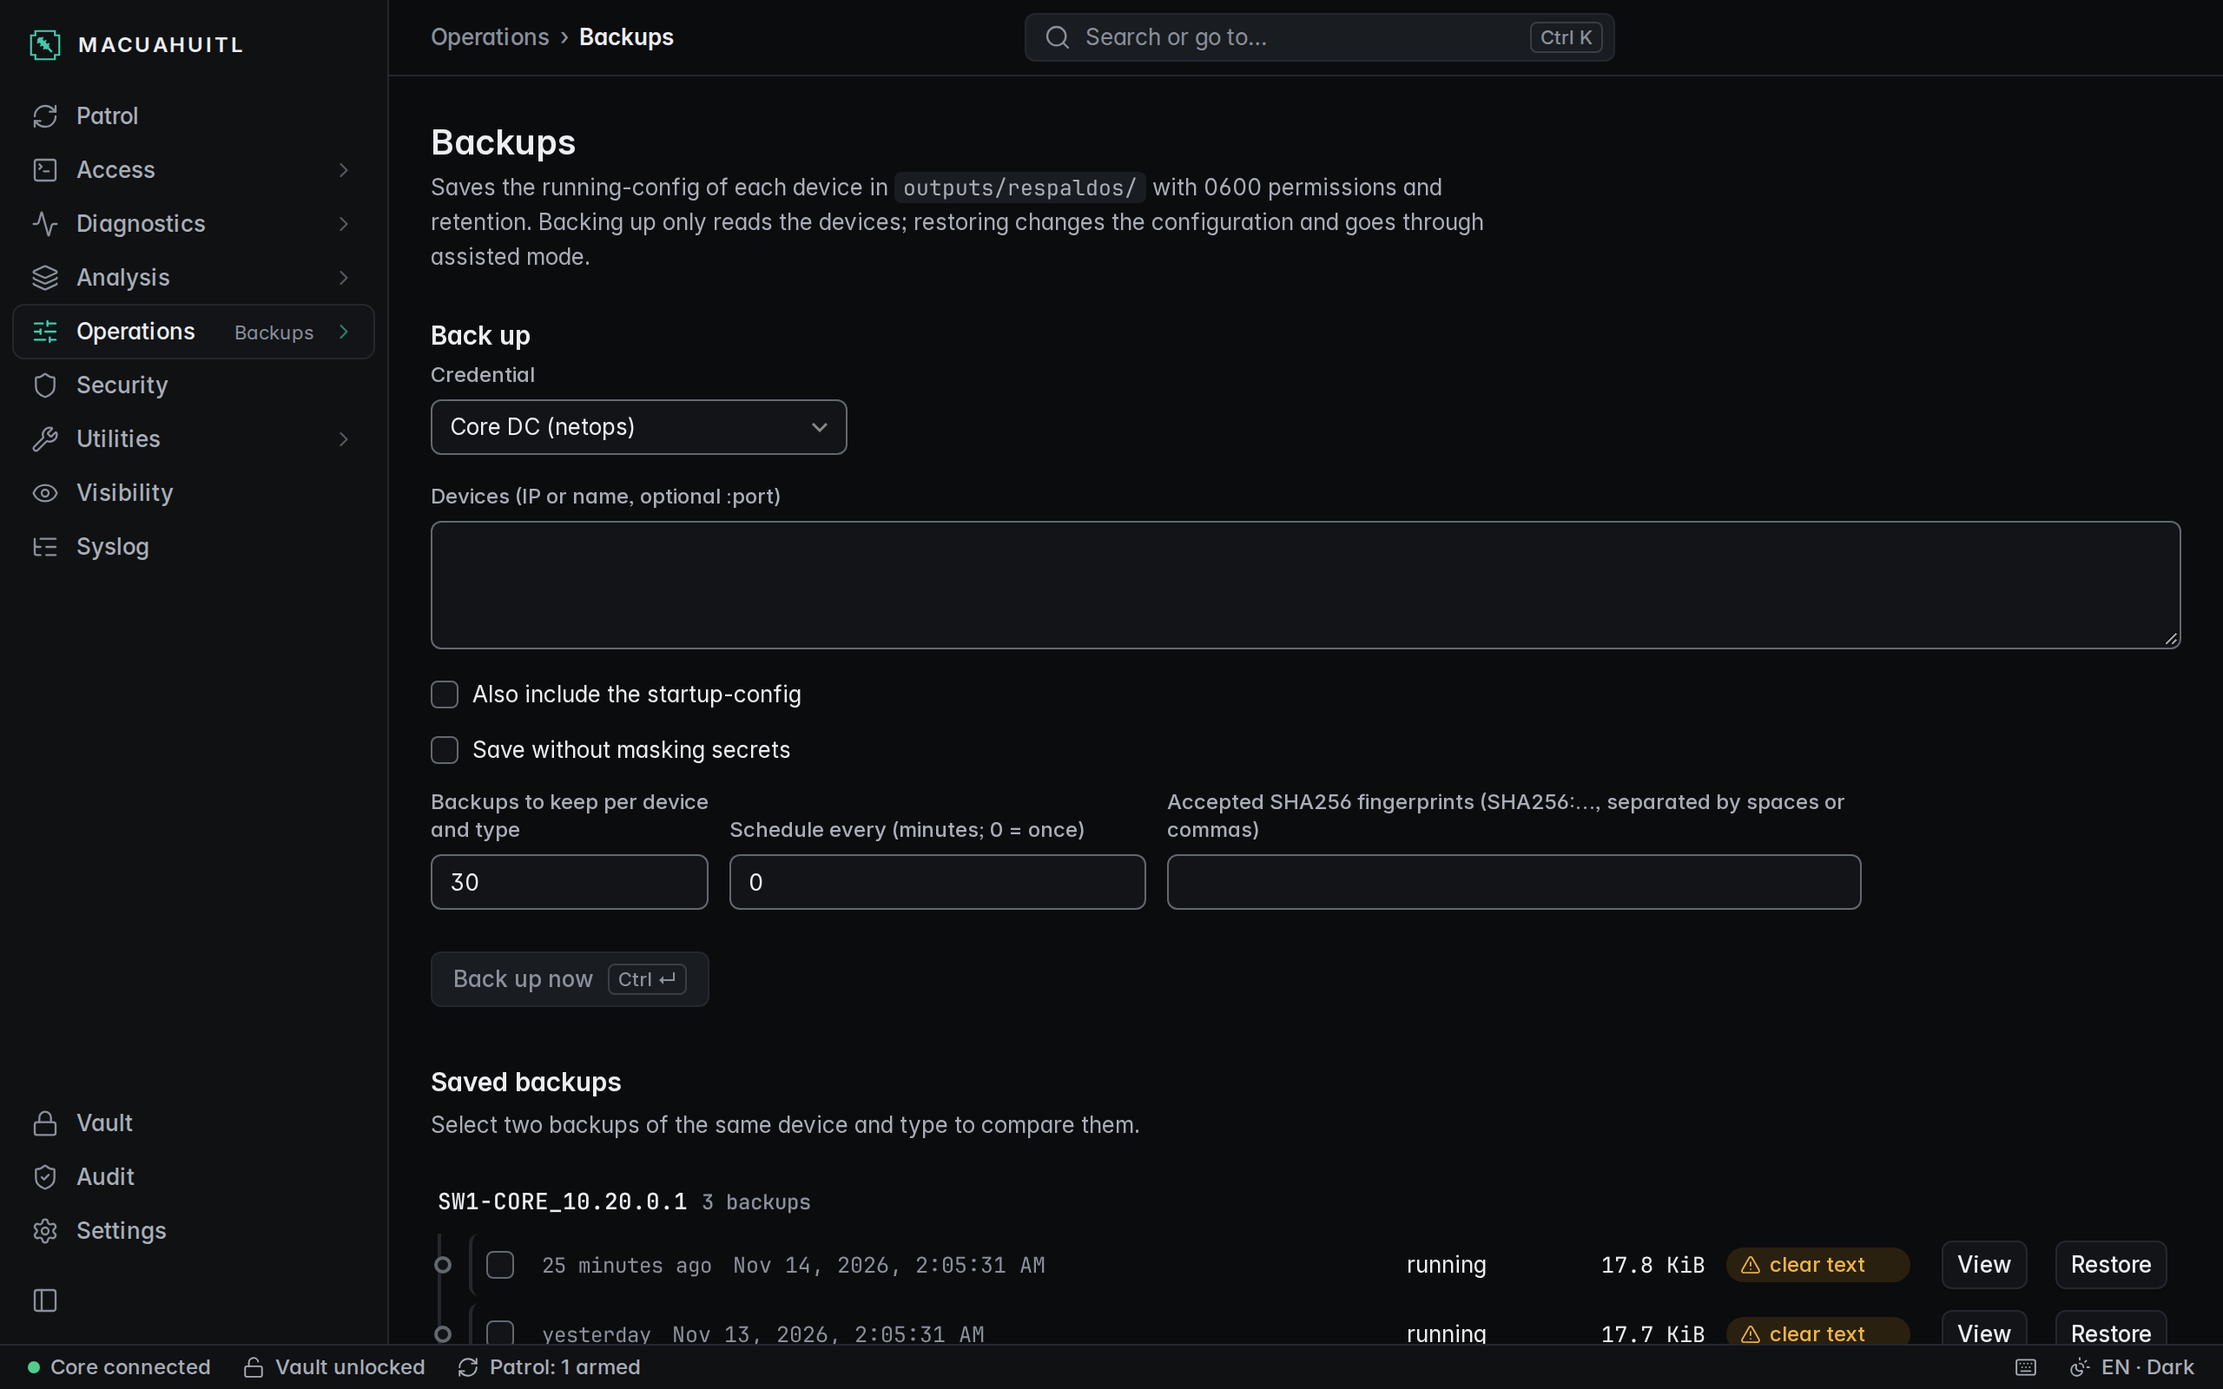
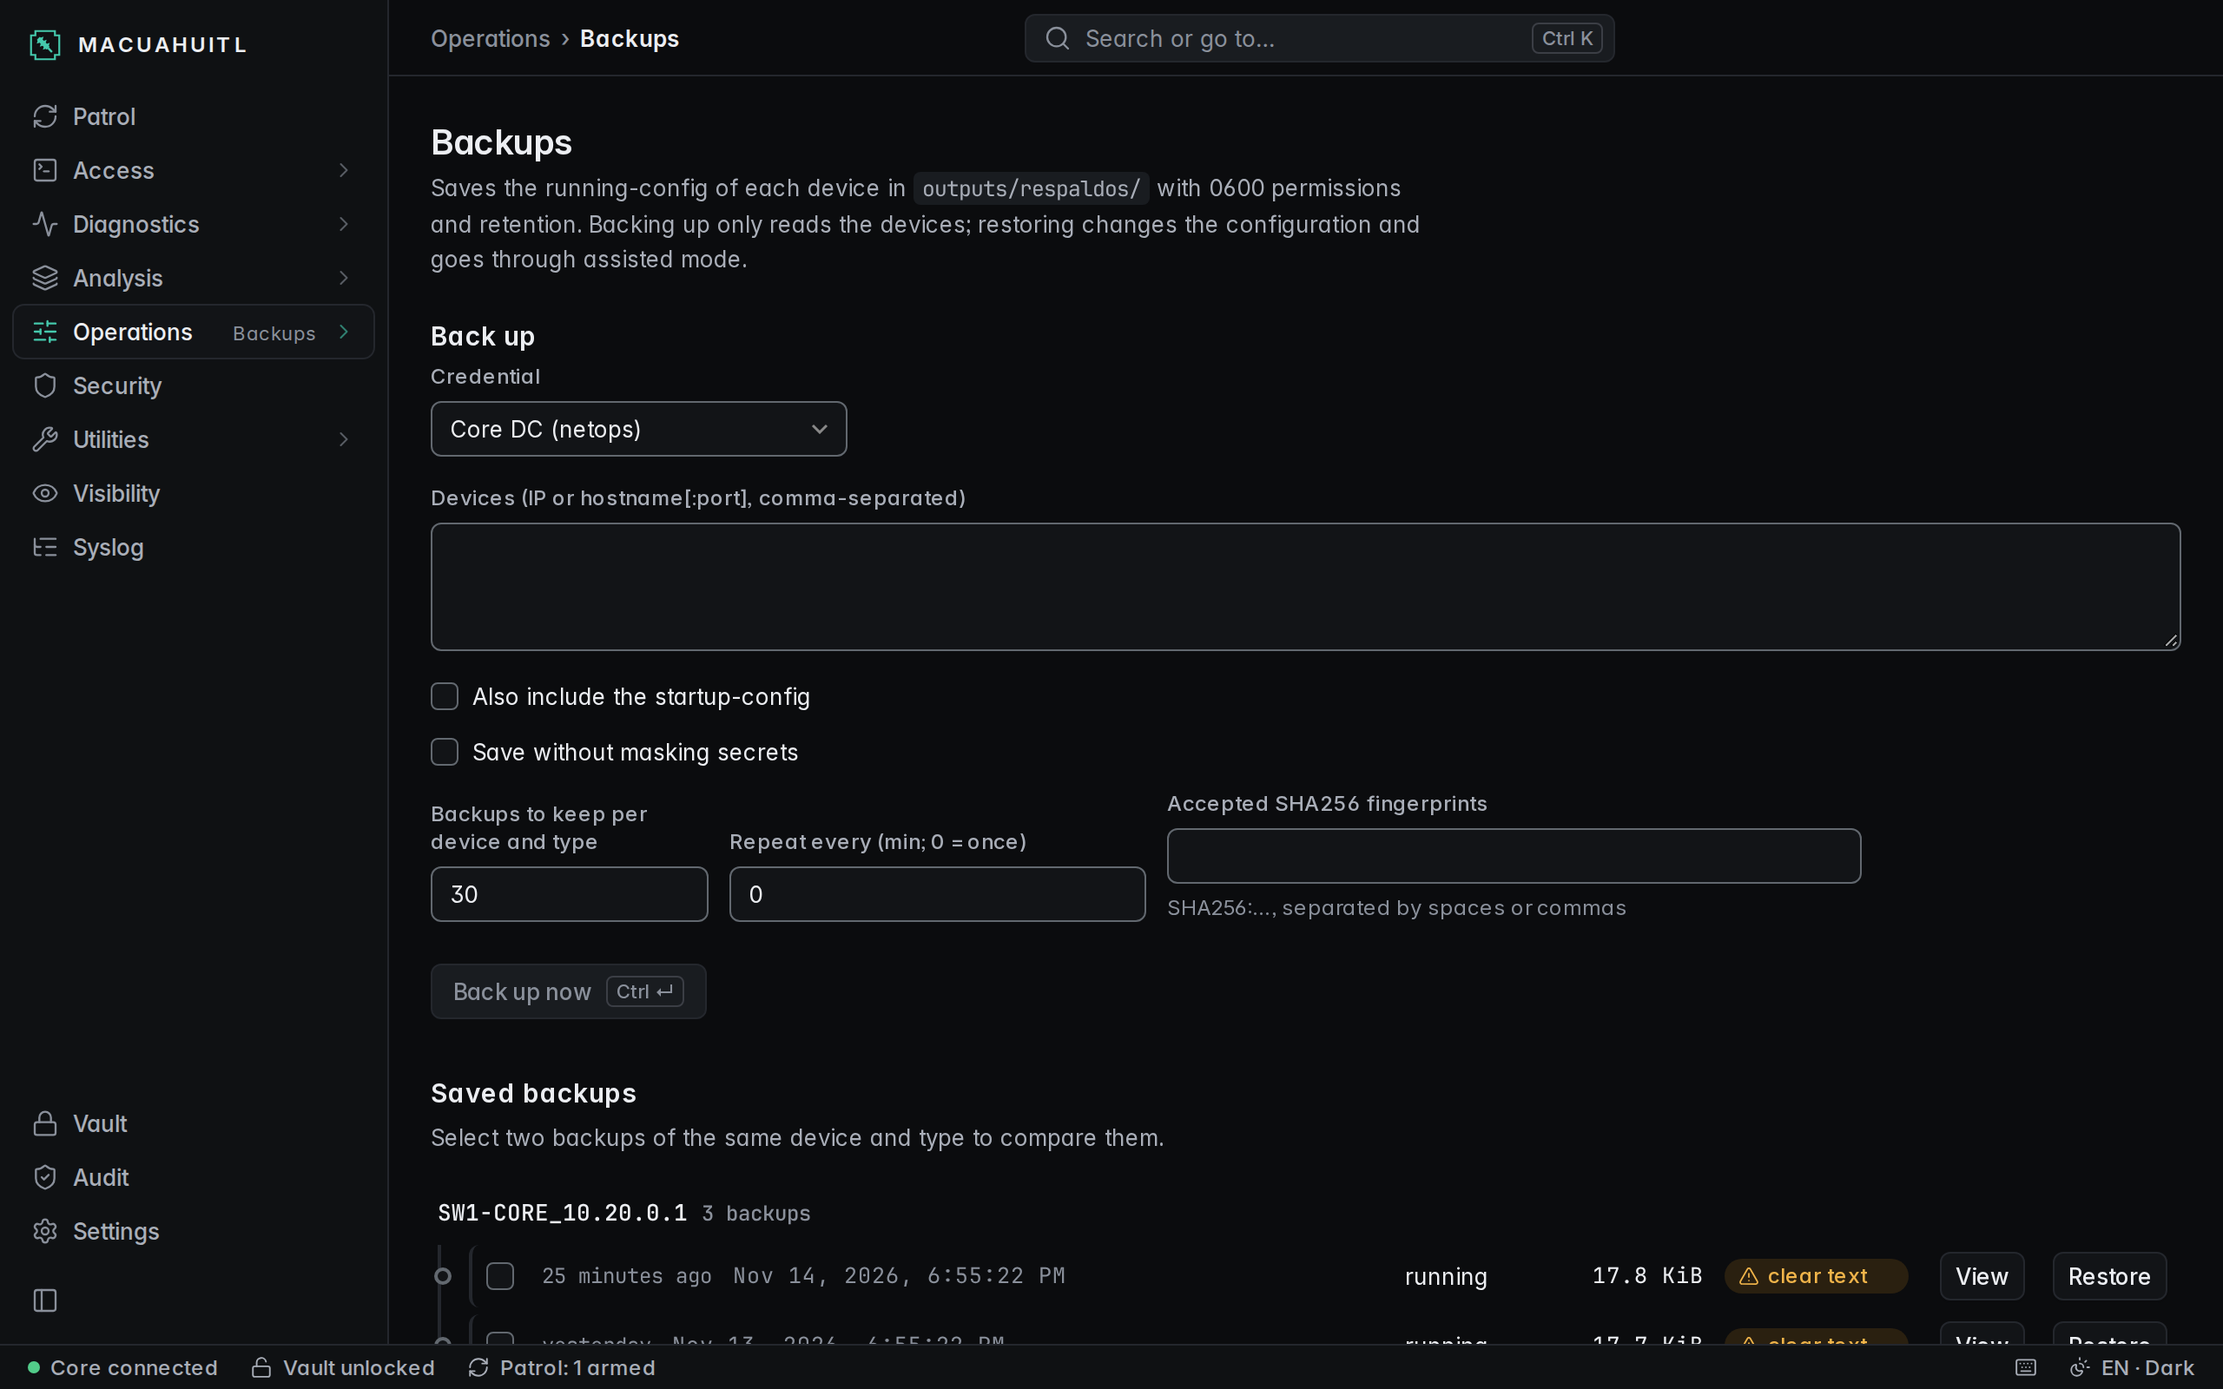
README: capturas nuevas (paquetes, selector de playbooks, análisis, hosts, caracteres ocultos) y recapturas con la UI actual

diff --git a/ui/frontend/src/preview/data.ts b/ui/frontend/src/preview/data.ts
@@ -7,6 +7,8 @@ import { samplePlaybooks } from "../modules/patrol/fake";
 import { sampleRestore } from "../modules/backup/fake";
 import { fakeSettings } from "../modules/settings/fake";
 import type { Host } from "../modules/inventory/api";
+import type { PlaybookInfo } from "../modules/patrol/api";
+import type { PackInfo } from "../modules/packs/api";
 
 // Sample data (in English, the app's canonical language) so every view looks like real use; extended module by module.
 export function sample(): Partial<CoreAPI> {
@@ -20,6 +22,9 @@ export function sample(): Partial<CoreAPI> {
     hostsImportFormat: async () => ({ fields: hostFieldsEn, maxRows: 1000, maxBytes: 5 << 20 }),
     hostsImportTemplate: async (format: "csv" | "json") => hostsTemplate(format),
     listPlaybooks: async () => playbooksEn,
+    packList: async () => packsEn,
+    packInspect: async () => ({ pack: packsEn[3], playbookIds: sdaIds.map((i) => "sda/" + i), scriptIds: sdaIds.map((i) => "lib-sda-" + i), replacedVersion: "", sha256: "a".repeat(64), displaced: [] as string[] }),
+    pickPath: async () => "/home/user/Downloads/oom-sda-1.0.0.mpack",
     assistPlanRestore: async () => restoreEn,
     setCorePrefs: async (p: Parameters<typeof settings.setCorePrefs>[0]) => { const r = await settings.setCorePrefs(p); return r.note ? { ...r, note: "The change applies to what starts afterwards: jobs and listeners already running keep the folder they started with. Data in the previous folder is not moved." } : r; },
     getCorePrefs: settings.getCorePrefs,
@@ -193,9 +198,14 @@ const swap = <T,>(v: T, pairs: [string, string][]): T => {
   return m(v) as T;
 };
 const hostsEn: Host[] = [
-  { id: "a".repeat(32), name: "LAB-CORE", address: "10.9.0.1", port: 22, platform: "ios-xe", folder: "Lab", tags: ["core"], credentialId: "c".repeat(32), credentialLabel: "lab-admin", notes: "floor 2" },
-  { id: "b".repeat(32), name: "LAB-AP", address: "ap1.lab", port: 2222, platform: "wlc", folder: "Lab", tags: [], credentialId: "", credentialLabel: "", notes: "" },
-  { id: "d".repeat(32), name: "OFFICE-SW", address: "10.8.0.1", port: 22, platform: "", folder: "Office", tags: ["access", "dc-1"], credentialId: "", credentialLabel: "", notes: "" },
+  { id: "aaaaaaaaaaaaaaaaaaaaaaaaaaaaaaaa", name: "LAB-CORE", address: "10.9.0.1", port: 22, platform: "ios-xe", folder: "Lab", tags: ["core"], credentialId: "cccccccccccccccccccccccccccccccc", credentialLabel: "lab-admin", notes: "" },
+  { id: "bbbbbbbbbbbbbbbbbbbbbbbbbbbbbbbb", name: "LAB-NXOS-LEAF1", address: "10.9.1.11", port: 22, platform: "nx-os", folder: "Lab", tags: ["leaf", "dc-1"], credentialId: "cccccccccccccccccccccccccccccccc", credentialLabel: "lab-admin", notes: "" },
+  { id: "cccccccccccccccccccccccccccccccc", name: "DC-ASA-01", address: "10.20.0.5", port: 22, platform: "asa", folder: "Datacenter", tags: ["firewall"], credentialId: "cccccccccccccccccccccccccccccccc", credentialLabel: "Core DC", notes: "" },
+  { id: "dddddddddddddddddddddddddddddddd", name: "DC-FTD-01", address: "10.20.0.6", port: 22, platform: "ftd", folder: "Datacenter", tags: ["firewall", "ha"], credentialId: "cccccccccccccccccccccccccccccccc", credentialLabel: "Core DC", notes: "" },
+  { id: "eeeeeeeeeeeeeeeeeeeeeeeeeeeeeeee", name: "ISE-PAN-01", address: "10.20.0.30", port: 22, platform: "ise", folder: "Datacenter", tags: ["aaa"], credentialId: "cccccccccccccccccccccccccccccccc", credentialLabel: "ISE (RADIUS secret)", notes: "" },
+  { id: "ffffffffffffffffffffffffffffffff", name: "WLC-9800-HQ", address: "10.30.0.10", port: 22, platform: "wlc", folder: "Campus", tags: ["wifi"], credentialId: "cccccccccccccccccccccccccccccccc", credentialLabel: "Branch access", notes: "" },
+  { id: "00000000000000000000000000000000", name: "OFFICE-SW", address: "10.8.0.1", port: 22, platform: "", folder: "Office", tags: ["access", "dc-1"], credentialId: "", credentialLabel: "", notes: "" },
+  { id: "11111111111111111111111111111111", name: "LAB-AP", address: "192.0.2.40", port: 22, platform: "wlc", folder: "Lab", tags: [], credentialId: "", credentialLabel: "", notes: "" },
 ];
 const devicesEn = swap(sampleDevices, [["CAIDO", "DOWN-SW"], ["SOLO-RESP", "BACKUP-ONLY"]]);
 const importEn = swap(sampleHostsImport, [
@@ -221,8 +231,54 @@ const hostsTemplate = (format: "csv" | "json") => {
   return { format, filename: `hosts-plantilla.${format}`, content: format === "csv" ? "\ufeff" + [names, ...rows].map((r) => r.join(",")).join("\n") + "\n"
     : JSON.stringify({ formato: "macuahuitl-hosts", version: 1, exportado: new Date().toISOString(), hosts: rows.map((r) => Object.fromEntries(names.map((n, i) => [n, r[i]]))) }, null, 2) };
 };
-const playbooksEn = swap(samplePlaybooks, [["TAC · Línea base", "TAC · Baseline"], ["TAC · Usuario sin red", "TAC · User with no connectivity"], ["L2 · VLAN y troncales", "L2 · VLANs, trunks and VTP"]]);
-const restoreEn = swap(sampleRestore, [["PC-contabilidad", "PC-accounting"], ["PC-ventas", "PC-sales"]]);
+const playbooksEn: PlaybookInfo[] = [
+  ...swap(samplePlaybooks, [["TAC · Línea base", "TAC · Baseline"], ["TAC · Usuario sin red", "TAC · User with no connectivity"], ["L2 · VLAN y troncales", "L2 · VLANs, trunks and VTP"]]).map((p) => ({ ...p, pack: "oom/ios-xe" })),
+  { id: "ios-xe/tac-lentitud-intermitente", platform: "ios-xe", name: "TAC · Intermittent slowness", commands: ["show clock", "show processes cpu sorted", "show processes cpu history", "show platform resources", "show interfaces summary"], params: [], pack: "oom/ios-xe" },
+  { id: "asa/fw-conexiones", platform: "asa", name: "ASA · Firewall · Active connections", commands: ["show clock", "show conn count", "show resource usage resource conns", "show perfmon", "show local-host"], params: [], pack: "oom/asa" },
+  { id: "asa/fw-nat-ip", platform: "asa", name: "ASA · Firewall · NAT of one IP", commands: ["show clock", "show xlate local {ip}", "show xlate global {ip}", "show nat detail", "show conn address {ip}"], params: [{"name": "ip", "kind": "ip"}], pack: "oom/asa" },
+  { id: "asa/ha-failover-estado", platform: "asa", name: "ASA · High availability · Failover status", commands: ["show clock", "show failover", "show failover state", "show failover interface", "show failover statistics"], params: [], pack: "oom/asa" },
+  { id: "ftd/snort-conexion-ip", platform: "ftd", name: "FTD · Snort · Snort and connections of one IP", commands: ["show clock", "show conn address {ip} detail", "show snort statistics", "show xlate local {ip}", "show route {ip}"], params: [{"name": "ip", "kind": "ip"}], pack: "oom/ftd" },
+  { id: "ftd/ha-failover-estado", platform: "ftd", name: "FTD · High availability · Failover status", commands: ["show clock", "show failover", "show failover state", "show high-availability config", "show running-config failover"], params: [], pack: "oom/ftd" },
+  { id: "ftd/l3-bgp", platform: "ftd", name: "FTD · Layer 3 · BGP", commands: ["show clock", "show bgp summary", "show bgp neighbors", "show bgp", "show route bgp"], params: [], pack: "oom/ftd" },
+  { id: "wlc-aireos/ap-union", platform: "wlc-aireos", name: "AireOS · AP · AP join", commands: ["show time", "show ap summary", "show ap join stats summary all", "show ap config global", "show ap max-count summary"], params: [], pack: "oom/wlc-aireos" },
+  { id: "wlc-aireos/sec-radius-cliente", platform: "wlc-aireos", name: "AireOS · Security · RADIUS of a client", commands: ["show time", "show client detail {mac}", "show radius auth statistics", "show radius summary", "show exclusionlist"], params: [{"name": "mac", "kind": "mac"}], pack: "oom/wlc-aireos" },
+  { id: "wlc-aireos/cli-roaming", platform: "wlc-aireos", name: "AireOS · Clients · Client roaming", commands: ["show time", "show client detail {mac}", "grep include \"{mac}\" \"show client summary\"", "show advanced client-handoff", "show mobility summary"], params: [{"name": "mac", "kind": "mac"}], pack: "oom/wlc-aireos" },
+  { id: "ise/l3-conectividad-ip", platform: "ise", name: "ISE · L3 · Connectivity to an IP", commands: ["show clock", "ping {ip}", "traceroute {ip}", "nslookup {ip}", "show ip route"], params: [{"name": "ip", "kind": "ip"}], pack: "oom/ise" },
+  { id: "ise/plat-discos", platform: "ise", name: "ISE · Platform · Disks and backups", commands: ["show clock", "show disks", "show backup history", "show backup status", "show application status ise"], params: [], pack: "oom/ise" },
+  { id: "ise/logs-ise-psc-errores", platform: "ise", name: "ISE · Logs · ise-psc errors", commands: ["show clock", "show logging application ise-psc.log | include ERROR", "show logging application ise-psc.log | include FATAL", "show logging application ise-psc.log | include WARN", "show logging application ise-psc.log | last 200"], params: [], pack: "oom/ise" },
+  { id: "nx-os/aci-ep-ip", platform: "nx-os", name: "ACI · Endpoints · Endpoint by IP", commands: ["show system internal epm endpoint ip {ip}", "show endpoint ip {ip}", "show ip arp", "show system internal epm vlan all", "show vlan extended"], params: [{"name": "ip", "kind": "ip"}], pack: "oom/aci" },
+  { id: "nx-os/aci-l2-vpc", platform: "nx-os", name: "ACI · L2 · vPC state", commands: ["show vpc", "show vpc brief", "show vpc role", "show lacp neighbor", "show vpc extended"], params: [], pack: "oom/aci" },
+  { id: "nx-os/aci-tac-contrato-bloquea", platform: "nx-os", name: "ACI · TAC · Contract blocking traffic", commands: ["show system internal epm endpoint ip {ip}", "show endpoint ip {ip}", "show zoning-rule scope {vnid}", "show zoning-filter", "show logging logfile | include ACLQOS"], params: [{"name": "ip", "kind": "ip"}, {"name": "vnid", "kind": "vnid"}], pack: "oom/aci" },
+];
+// The 11 official packs (texts from packs/*/manifest.yaml) and the real playbook ids of oom/sda for the install preview.
+const pack = (id: string, version: string, nameEn: string, descriptionEn: string, platform: string, playbookCount: number): PackInfo => ({
+  id, version, minCore: "0.3.1", name: nameEn, nameEn, description: descriptionEn, descriptionEn, platforms: [platform], author: "oom-netsec", license: "Apache-2.0",
+  official: true, playbookCount, scriptCount: playbookCount, shadowed: [], hidden: [],
+});
+const packsEn: PackInfo[] = [
+  pack("oom/ios", "1.1.1", "IOS classic, TAC diagnostics", "Read-only layer 1, 2, 3, platform, services and VPN playbooks for classic IOS 12.2/15.x (Catalyst 2960/3560/3750 and ISR G2), with their script library.", "ios", 52),
+  pack("oom/ios-xe", "1.1.1", "IOS-XE, TAC diagnostics", "Read-only layer 1, 2, 3, platform, services, VPN and router WAN playbooks for IOS-XE, with their script library.", "ios-xe", 69),
+  pack("oom/cat9k", "1.0.0", "Catalyst 9000, TAC diagnostics", "Read-only playbooks for Catalyst 9200/9300/9400/9500/9600 running IOS-XE 17.x - platform, stack and StackWise Virtual, PoE, ASIC, CPU and punt, security, services, L1, L2, L3 and TAC cases; the per-interface and per-MAC ones ask for that datum.", "cat9k", 55),
+  pack("oom/sda", "1.0.0", "SD-Access, TAC diagnostics", "Read-only playbooks for the SD-Access fabric on Catalyst 9000 running IOS-XE 17.x - LISP, fabric (roles, VNs, access tunnels, CTS/SGT), edge, border and TAC cases; the per-endpoint ones ask for its MAC, IP or interface.", "sda", 26),
+  pack("oom/wlc-9800", "1.0.0", "Catalyst 9800, TAC diagnostics", "Read-only playbooks for the Catalyst 9800 wireless controller (appliance, 9800-CL and EWC on 9100/9120 APs) with IOS-XE 17.x - controller, APs, clients, RF, WLANs, security, mobility and TAC cases; the per-client and per-AP ones ask for the MAC or name.", "wlc-9800", 47),
+  pack("oom/wlc-aireos", "1.0.1", "AireOS · Cisco wireless controllers, TAC diagnostics", "Read-only playbooks for Cisco AireOS wireless controllers 8.5 to 8.10 (2504, 3504, 5508, 5520, 8540, vWLC) - platform and health, APs (CAPWAP join, inventory, radios), clients, WLANs, RF/RRM and CleanAir, mobility and anchors, security (RADIUS, TACACS, rogues, ACLs), interfaces and ports, services and TAC cases; the per-AP, per-client and per-WLAN ones ask for that datum.", "wlc-aireos", 64),
+  pack("oom/nx-os", "1.0.1", "Nexus NX-OS, TAC diagnostics", "Read-only playbooks for Cisco Nexus switches running NX-OS (9000, 7000, 5000/6000, 3000) - platform, interfaces, L2 and vPC, VXLAN/EVPN, routing, FEX, security, services and TAC cases; the per-interface, per-IP and per-MAC ones ask for that datum.", "nx-os", 68),
+  pack("oom/aci", "1.0.1", "Cisco ACI, leaf and spine", "Read-only playbooks for Nexus 9000 leaf and spine switches in ACI mode from their CLI - fabric (IS-IS, VTEP, MP-BGP), endpoints (EPM), contracts (zoning-rule), vPC, interfaces, L3Out (BGP, OSPF, BFD) and TAC cases; the per-IP, per-MAC, per-VRF, per-VNID and per-interface ones ask for that datum.", "nx-os", 45),
+  pack("oom/asa", "1.0.0", "Cisco ASA, TAC diagnostics", "Read-only playbooks for Cisco ASA 9.x (ASAv, 5500-X, Firepower with ASA image), in single and multiple context mode - platform, interfaces, firewall (connections, NAT, ACLs, inspection), VPN, failover and cluster, contexts, routing, security, services and TAC cases; the per-interface, per-IP and per-peer ones ask for that datum.", "asa", 68),
+  pack("oom/ftd", "1.0.0", "Cisco Secure Firewall Threat Defense (FTD), TAC diagnostics", "Read-only playbooks for Cisco Secure Firewall Threat Defense (FTD 7.x, managed by FMC or FDM) from its normal CLI - platform and health, interfaces, firewall (connections, NAT, lina ACLs, access control policy), Snort, VPN, high availability and cluster, management with the FMC, routing, services and TAC cases; the per-interface, per-IP and per-peer ones ask for that datum.", "ftd", 64),
+  pack("oom/ise", "1.0.0", "ISE · Cisco Identity Services Engine, TAC diagnostics", "Read-only playbooks for Cisco ISE 3.x nodes (PAN, MnT, PSN and pxGrid) from their ADE-OS CLI - version and patches, application process status, CPU, memory and disks, backups, interfaces, routes, ports, DNS and NTP, services (RADIUS, TACACS+, pxGrid, certificates, Active Directory, replication), application logs and TAC cases; the connectivity one asks for the target IP.", "ise", 36),
+];
+const sdaIds = ["border-handoff-bgp", "border-rutas-externas", "border-transit", "edge-device-tracking", "edge-dhcp", "edge-sesiones", "fabric-aaa-ise", "fabric-access-tunnel", "fabric-cts-credenciales", "fabric-cts-sgt", "fabric-roles", "fabric-vn-vrf", "lisp-base-datos", "lisp-eid-ip", "lisp-eid-mac", "lisp-map-cache", "lisp-publicaciones", "lisp-sesiones", "lisp-sitios", "tac-border-sin-rutas", "tac-endpoint-sin-conectividad-ip", "tac-endpoint-sin-conectividad-mac", "tac-onboarding-falla-general", "tac-onboarding-falla", "tac-roaming-edges", "tac-sgt-trafico-denegado"];
+// The restore plan of the Backups preview carries two restored lines with hidden characters (U+202E bidi, U+200B zero width): the plan shows them as ⟦U+XXXX⟧.
+const restoreBase = swap(sampleRestore, [["PC-contabilidad", "PC-accounting"], ["PC-ventas", "PC-sales"]]);
+const restoreEn: typeof restoreBase = {
+  ...restoreBase,
+  plan: { ...restoreBase.plan!, devices: restoreBase.plan!.devices.map((d) => ({
+    ...d,
+    apply: [...d.apply, "banner motd ^C\u202eEnd of maintenance window^C", "snmp-server location Rack-12\u200b-DC1"],
+    rollback: [...d.rollback, "no banner motd", "snmp-server location Rack-12"],
+  })) },
+};
 
 type Ago = (min: number) => string;
 const stamp = (iso: string) => iso.replace(/[-:]|\.\d+/g, "");
